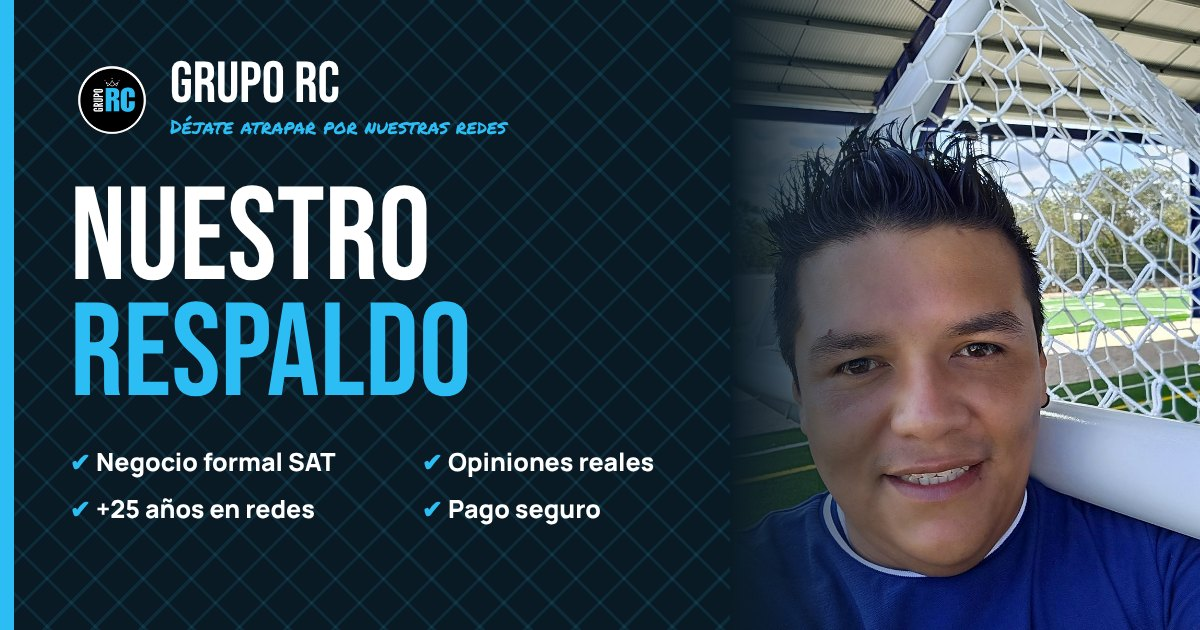
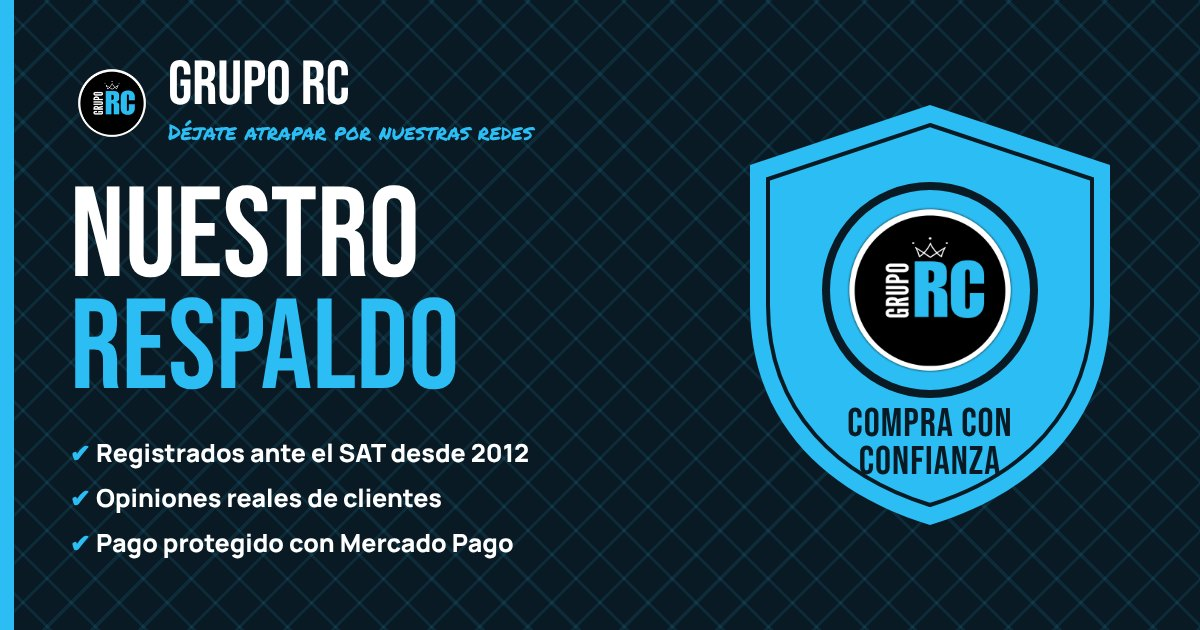
Respaldo: datos fiscales reales, sin foto de Reinier en imagen y bloque 1, ventajas de Mercado Pago
Claude-Session: https://claude.ai/code/session_01H8iAorQsLPD1HsChJTEYpw

diff --git a/respaldo.html b/respaldo.html
@@ -11,15 +11,15 @@
 <title>Nuestro respaldo | Redes Deportivas RC</title>
 <!-- Página para mandar por WhatsApp a clientes con dudas. No se indexa ni sale en el menú. -->
 <meta name="robots" content="noindex, follow">
-<meta name="description" content="Quiénes somos, negocio registrado ante el SAT, opiniones reales de clientes, dónde nos has visto y cómo pagar seguro. Compruébalo antes de comprar.">
+<meta name="description" content="Quiénes somos, negocio registrado ante el SAT desde 2012, opiniones reales de clientes, dónde nos has visto y cómo pagar seguro. Compruébalo antes de comprar.">
 <meta property="og:type" content="website">
 <meta property="og:locale" content="es_MX">
 <meta property="og:site_name" content="Redes Deportivas RC">
 <meta property="og:url" content="https://www.redesdeportivasrc.com/respaldo.html">
 <meta property="og:title" content="Nuestro respaldo · Grupo RC">
 <meta property="og:description" content="Quiénes somos, negocio formal ante el SAT, opiniones reales y pago seguro. Compruébalo antes de comprar.">
-<meta property="og:image" content="https://www.redesdeportivasrc.com/assets/img/compartir/respaldo.jpg?v=1">
-<meta property="og:image:secure_url" content="https://www.redesdeportivasrc.com/assets/img/compartir/respaldo.jpg?v=1">
+<meta property="og:image" content="https://www.redesdeportivasrc.com/assets/img/compartir/respaldo.jpg?v=2">
+<meta property="og:image:secure_url" content="https://www.redesdeportivasrc.com/assets/img/compartir/respaldo.jpg?v=2">
 <meta property="og:image:type" content="image/jpeg">
 <meta property="og:image:width" content="1200">
 <meta property="og:image:height" content="630">
@@ -47,7 +47,7 @@
   .rs-sec h2{font-family:'Manrope',sans-serif;font-weight:800;letter-spacing:-.5px;font-size:clamp(1.5rem,3vw,2.1rem);display:flex;align-items:center;}
   .rs-sub{color:#4d5a63;margin-top:8px;max-width:62ch;}
   .rs-dos{display:grid;grid-template-columns:minmax(0,340px) 1fr;gap:32px;align-items:center;margin-top:22px;}
-  .rs-dos img{border-radius:var(--radio);aspect-ratio:4/5;object-fit:cover;width:100%;box-shadow:0 12px 30px rgba(10,26,36,.18);}
+  .rs-dos img{border-radius:var(--radio);aspect-ratio:4/3;object-fit:cover;width:100%;box-shadow:0 12px 30px rgba(10,26,36,.18);}
   .rs-cita{font-size:1.12rem;line-height:1.6;}
   .rs-cita b{color:var(--azul-btn,#1591c2);}
   .rs-lista{list-style:none;padding:0;margin:18px 0 0;display:grid;gap:10px;}
@@ -80,6 +80,9 @@
   .rs-pago > div{background:#fff;border:1px solid var(--linea);border-radius:12px;padding:16px;}
   .rs-pago h3{font-family:'Manrope';font-weight:800;font-size:1.02rem;margin-bottom:6px;}
   .rs-pago p{color:#4d5a63;font-size:.93rem;}
+.rs-mp{margin:8px 0 0;padding-left:18px;color:#4d5a63;font-size:.92rem;display:grid;gap:6px;}
+  .rs-mp b{color:var(--negro);}
+  .rs-pago{grid-template-columns:1.6fr 1fr 1fr !important;}
   .rs-logos{display:flex;flex-wrap:wrap;gap:10px;align-items:center;margin-top:10px;}
   .rs-logos img{height:26px;width:auto;}
   .rs-cta{background:var(--azul-osc);color:#fff;padding:44px 0;text-align:center;}
@@ -88,9 +91,9 @@
   .rs-cta .btn{display:inline-flex;gap:8px;align-items:center;}
   @media (max-width:900px){
     .rs-dos{grid-template-columns:1fr;}
-    .rs-dos{gap:16px;} .rs-dos img{max-width:170px;aspect-ratio:1/1;border-radius:50%;border:4px solid var(--azul);}
+    .rs-dos{gap:16px;} .rs-dos img{aspect-ratio:16/10;}
     .rs-pres{grid-template-columns:repeat(2,1fr);}
-    .rs-pago{grid-template-columns:1fr;}
+    .rs-pago{grid-template-columns:1fr !important;}
     .rs-sec{padding:36px 0;}
   }
   @media (max-width:520px){ .rs-pres{grid-template-columns:1fr 1fr;gap:10px;} .rs-pres div{padding:10px;} .rs-pres small{font-size:.78rem;} }
@@ -115,7 +118,7 @@
   <div class="envolvente">
     <h2><span class="rs-num">1</span>¿Quién está detrás?</h2>
     <div class="rs-dos">
-      <img src="assets/img/eventos/henry-martin-grupo-rc-02.jpg" alt="Reinier Coral, fundador de Grupo RC, junto a una portería con red instalada" loading="lazy">
+      <img src="assets/img/trabajos/instalacion-red-contencion-golf-hotel-chable-vista-dron.jpg" alt="Red de contención instalada por Grupo RC en el campo de golf del Hotel Chablé, vista desde dron" loading="lazy">
       <div>
         <p class="rs-cita">Soy <b>Reinier Coral</b>. Aprendí a tejer redes en la primaria y en la secundaria ya me subía a los postes a instalarlas. Hoy llevo <b>más de 25 años vendiendo redes y más de 20 instalándolas</b>. En 2024 fundé Grupo RC para llevar esa experiencia a todo México.</p>
         <ul class="rs-lista" id="rs-hechos"></ul>
@@ -127,7 +130,7 @@
 <section class="rs-sec" id="formal">
   <div class="envolvente">
     <h2><span class="rs-num">2</span>Negocio formal, al corriente con el SAT</h2>
-    <p class="rs-sub">Estamos dados de alta ante el SAT y emitimos factura. Estos son los datos que puedes comprobar:</p>
+    <p class="rs-sub" id="rs-fiscal-sub">Estamos dados de alta ante el SAT y emitimos factura. Estos son los datos que puedes comprobar:</p>
     <div class="rs-fiscal" id="rs-fiscal"></div>
     <p class="rs-nota">Por seguridad no publicamos la Constancia de Situación Fiscal ni la Opinión de Cumplimiento completas, porque traen datos privados. <b>Si quieres verlas, pídenoslas por WhatsApp y te las mandamos.</b></p>
   </div>
@@ -155,8 +158,15 @@
     <h2><span class="rs-num">5</span>Paga seguro</h2>
     <div class="rs-pago">
       <div>
-        <h3>💳 Tarjeta, OXXO o mensualidades</h3>
-        <p>Te mandamos una liga oficial de pago y el cobro lo procesa Mercado Pago: nosotros nunca vemos los datos de tu tarjeta. Si pagas con tu cuenta de Mercado Pago, puedes abrir un reclamo con ellos si no recibes tu pedido, según las condiciones de su programa de Compra Protegida.</p>
+        <h3>🛡 Protegido por Mercado Pago</h3>
+        <p>Te mandamos una liga oficial de pago y el cobro lo hace Mercado Pago, no nosotros. Eso te da:</p>
+        <ul class="rs-mp">
+          <li><b>Tus datos seguros:</b> nunca vemos ni guardamos los datos de tu tarjeta.</li>
+          <li><b>Derecho a reclamar:</b> si pagas con tu cuenta de Mercado Pago y tu pedido no llega o no es lo acordado, abres un reclamo con ellos y, si procede, te regresan tu dinero (Compra Protegida, según sus condiciones).</li>
+          <li><b>Con tarjeta, doble respaldo:</b> además puedes aclarar el cargo con tu banco.</li>
+          <li><b>Comprobante al instante</b> en tu correo y en tu app.</li>
+        </ul>
+        <p style="margin-top:8px">Paga con tarjeta, en efectivo en OXXO o en mensualidades.</p>
         <div class="rs-logos" id="rs-logos"></div>
       </div>
       <div>
@@ -199,7 +209,8 @@
     F.titular && ['Titular', F.titular],
     F.rfc && ['RFC', F.rfc],
     F.regimen && ['Régimen fiscal', F.regimen],
-    ['Opinión de cumplimiento', 'Positiva ✔' + (F.opinionFecha ? `<small style="text-transform:none;letter-spacing:0;font-weight:600">Consultada el ${esc(F.opinionFecha)}</small>` : ''), 'ok'],
+    F.alta && ['Registrado en el SAT', 'Desde ' + esc(F.alta)],
+    ['Opinión de cumplimiento', 'Positiva ✔' + (F.opinionFecha ? `<small style="text-transform:none;letter-spacing:0;font-weight:600">Emitida el ${esc(F.opinionFecha)}${F.opinionFolio ? ' · folio ' + esc(F.opinionFolio) : ''}</small>` : ''), 'ok'],
     ['Facturación', 'Emitimos factura electrónica (CFDI)'],
   ].filter(Boolean).map(([k, v, c]) => `<div class="rs-dato ${c || ''}"><small>${k}</small><b>${v}</b></div>`).join('');
 

diff --git a/assets/js/data.js b/assets/js/data.js
@@ -614,10 +614,12 @@ const TESTIMONIOS = [
 // Lo que cambia se edita SOLO aquí. Si un dato fiscal está vacío, su renglón no se muestra.
 const RESPALDO = {
   fiscal:{
-    titular:'',                 // nombre como aparece en el SAT (pendiente de Reinier)
-    rfc:'',                     // RFC (pendiente de Reinier)
-    regimen:'Persona física con actividad empresarial',  // régimen 612 (dato de facturación)
-    opinionFecha:'',            // fecha de la última opinión de cumplimiento POSITIVA, ej. '10 de noviembre de 2026'
+    titular:'Reinier Alejandro Coral López',   // como aparece en la Constancia de Situación Fiscal
+    rfc:'COLR9006214F4',
+    regimen:'Persona física con actividades empresariales',
+    alta:'2012',                               // inicio de operaciones ante el SAT (CSF, fabricación de redes)
+    opinionFecha:'21 de septiembre de 2026',   // última opinión de cumplimiento POSITIVA (actualizar al sacar una nueva)
+    opinionFolio:'26NK9931146',
   },
   // Momentos que se muestran en "Dónde nos has visto" (foto en assets/img/eventos/, sin extensión).
   presencia:[
